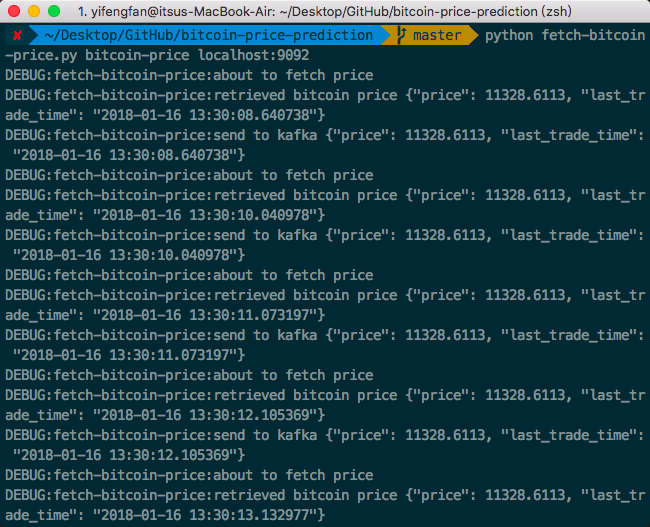
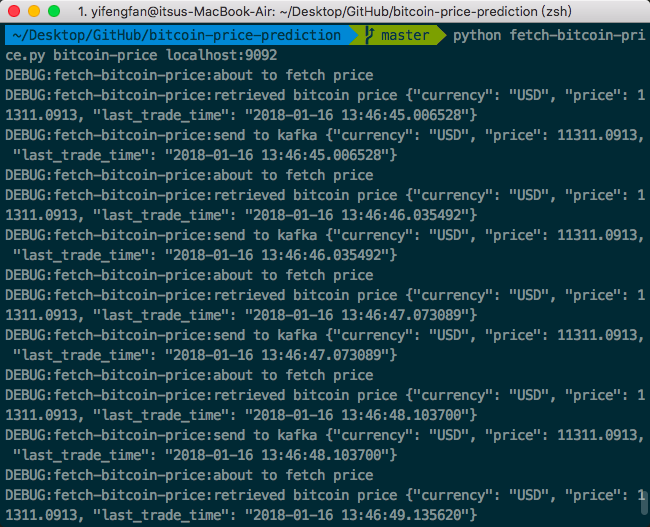
add currency

diff --git a/fetch-bitcoin-price.py b/fetch-bitcoin-price.py
@@ -29,7 +29,8 @@ def fetch_price_and_send(producer):
 	price, time = get_current_price(currency)
 	data = {
 		'price': price,
-		'last_trade_time': time
+		'last_trade_time': time,
+		'currency': currency
 	}
 	data = json.dumps(data)
 	logger.debug('retrieved bitcoin price %s', data)
